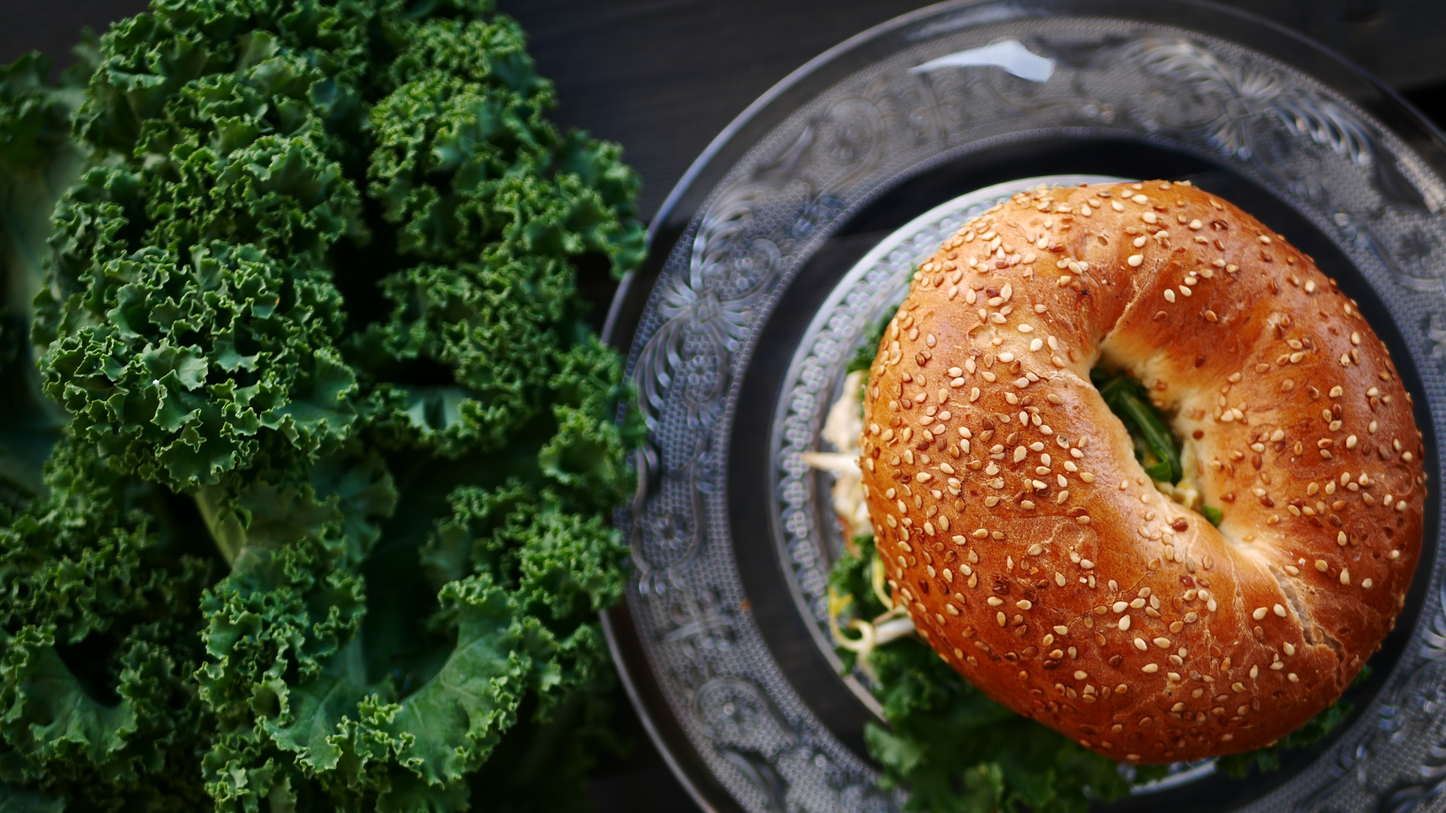
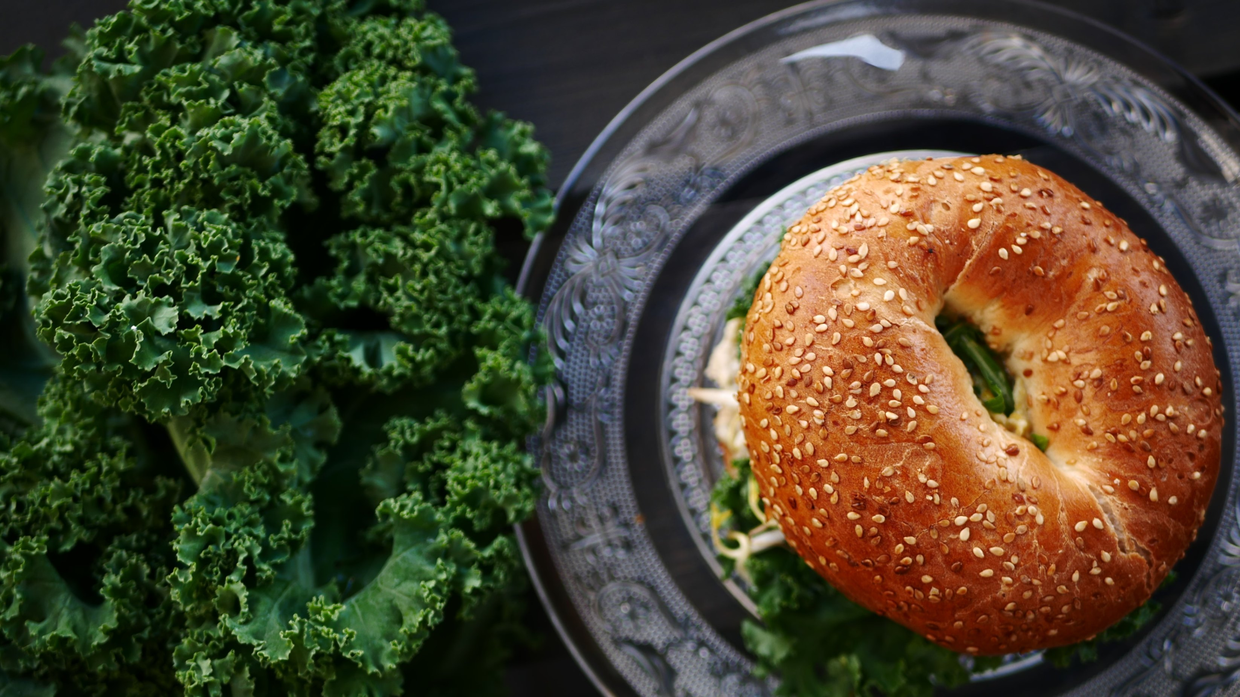
style: [정다운] 사용자용 상품 읽기 페이지에 스타일 적용 [RDY-83]
1. 사용자용 상품 읽기 페이지에 스타일 적용
2. 이미지 압축 후 재업로드
3. 로고 상대경로 절대경로로 변경

diff --git a/src/page/product/productUser/ProductDetail.tsx b/src/page/product/productUser/ProductDetail.tsx
@@ -10,6 +10,7 @@ import {
   TableHead,
   TableRow,
   Paper,
+  Chip,
 } from "@mui/material";
 import AddIcon from "@mui/icons-material/Add";
 import RemoveIcon from "@mui/icons-material/Remove";
@@ -243,7 +244,7 @@ const ProductDetailPage = () => {
           )}
         </div>
 
-        <div className="product-description-container">
+        <div className="product-detail-container">
           <div className="sticky-header-container">
             <div className="sticky-header">
               <div className="sticky-header-elements">
@@ -259,55 +260,96 @@ const ProductDetailPage = () => {
               </div>
             </div>
           </div>
+
           <div className="example1" ref={yDetail}>
             <div className="example-container">
-              상세 정보
               {data && isLoading ? (
                 <>
                   <div>
-                    {/* 여기에 상세 정보 작성하세요 */}
-                    <div className="product-details">
-                      <TableContainer component={Paper}>
-                        <Table sx={{ minWidth: 650 }} aria-label="farm-info table">
-                          <TableHead>
-                            <TableRow>
-                              <TableCell>상호명</TableCell>
-                              <TableCell>전화</TableCell>
-                              <TableCell>주소</TableCell>
-                              <TableCell>소개</TableCell>
-                              <TableCell>분류</TableCell>
-                            </TableRow>
-                          </TableHead>
-                          <TableBody>
-                            <TableRow key={data?.farmInfoResponse.farmName}>
-                              <TableCell>{data?.farmInfoResponse.farmName}</TableCell>
-                              <TableCell>{data?.farmInfoResponse.csContactNumber}</TableCell>
-                              {/* 임시로 주소만 표기 */}
-                              <TableCell>{data?.farmInfoResponse.farmAddress.address}</TableCell>
-                              <TableCell>{data?.farmInfoResponse.introduction}</TableCell>
-                              <TableCell>{data?.farmInfoResponse.produceTypes}</TableCell>
-                            </TableRow>
-                          </TableBody>
-                        </Table>
-                      </TableContainer>
-                      <div className="product-description">
-                        <div>상품 설명</div>
-                        <div>{parsedHTML}</div>
-                      </div>
+                    <div className="product-description-container">
+                      <div className="product-detail-header-name">상품정보</div>
+                      <div>{parsedHTML}</div>
                     </div>
+                    <hr className="hr2-style" />
+                    {/* 여기에 상세 정보 작성하세요 */}
+                    <div className="farm-details">
+                      <div className="product-detail-header-name">판매자정보</div>
+
+                      <div className="farm-profile-container">
+                        <div className="farm-profile">
+                          <img
+                            src={getImageUrl(data?.farmInfoResponse.mainImage)}
+                            width={80}
+                            height={80}
+                            style={{ paddingTop: "14px", paddingBottom: "8px", borderRadius: "50%"}}
+                            alt="사진"
+                          />
+                          <div className="farm-name">
+                            <span>{data?.farmInfoResponse.farmName}</span>
+                          </div>
+                        </div>
+                        <div className="farm-introduce">
+                          {data?.farmInfoResponse.introduction}
+                        </div>
+                      </div>
+
+                        <TableContainer component={Paper}>
+                          <Table sx={{ minWidth: 650 }} aria-label="farm-info table">
+                            <TableHead style={{ backgroundColor: "#FAFAFA" }}>
+                              <TableRow>
+                                <TableCell className="farm-info-cell" style={{ width: "20%", textAlign: "center" }}>전화</TableCell>
+                                <TableCell className="farm-info-cell" style={{ width: "40%", textAlign: "center" }}>주소</TableCell>
+                                <TableCell className="farm-info-cell" style={{ width: "40%", textAlign: "center" }}>생산품목</TableCell>
+                              </TableRow>
+                            </TableHead>
+                            <TableBody>
+                              <TableRow key={data?.farmInfoResponse.farmName}>
+                                <TableCell className="farm-info-cell" style={{ width: "20%", textAlign: "center" }}>{data?.farmInfoResponse.csContactNumber}</TableCell>
+                                {/* 임시로 주소만 표기 */}
+                                <TableCell className="farm-info-cell" style={{ width: "40%", textAlign: "center" }}>{data?.farmInfoResponse.farmAddress.address}</TableCell>
+                                <TableCell className="farm-info-cell" style={{ width: "40%", textAlign: "center" }}>
+                                  {data?.farmInfoResponse.produceTypes.map((produceType, index) => (
+                                    <Chip 
+                                      size="small" 
+                                      style={{color: "#252525", backgroundColor: "#EEEEEE", marginLeft: "3px" }}
+                                      key={index} 
+                                      label={
+                                        produceType === "POTATO" ? "감자" : 
+                                        produceType === "SWEET_POTATO" ? "고구마" : 
+                                        produceType === "CABBAGE" ? "양배추" : 
+                                        produceType === "KIMCHI_CABBAGE" ? "배추" : 
+                                        produceType === "LEAF_LETTUCE" ? "양상추" : 
+                                        produceType === "ROMAINE_LETTUCE" ? "로메인 상추" : 
+                                        produceType === "PEPPER" ? "고추" : 
+                                        produceType === "GARLIC" ? "마늘" : 
+                                        produceType === "TOMATO" ? "토마토" : 
+                                        produceType === "CUCUMBER" ? "오이" : 
+                                        produceType === "CARROT" ? "당근" : 
+                                        produceType === "EGGPLANT" ? "가지" : 
+                                        produceType} />
+                                  ))}
+                                </TableCell>
+                              </TableRow>
+                            </TableBody>
+                          </Table>
+                        </TableContainer>
+                      </div>
                   </div>
                 </>
               ) : (
                 <p>상품 상세 정보 불러오는 중</p>
               )}
             </div>
+            <hr className="hr2-style" />
           </div>
 
           <div className="example2" ref={yReview}>
             {data && isLoading ? (
               <>
                 {/* 여기에 리뷰 작성하세요 */}
-                <div>여기부터 리뷰</div>
+                <div className="example-container">
+                  <div className="product-detail-header-name">상품후기</div>
+                </div>
               </>
             ) : (
               <p>리뷰 정보 불러오는 중</p>

diff --git a/src/page/product/productUser/css/ProductDetail.css b/src/page/product/productUser/css/ProductDetail.css
@@ -30,20 +30,14 @@
 }
 .product-info-grid {
   padding-bottom: 56px;
-  gap: 50px;
+  gap: 20px;
   display: grid;
   flex-direction: column;
   grid-template-columns: repeat(2, minmax(0, 1fr));
 }
 .product-main-image {
-  gap: 6px;
   flex-direction: column;
-  width: 100%;
   display: flex;
-}
-.product-detail-image {
-  width: 10px;
-  height: 10px;
 }
 .product-name {
   font-family: "SUIT-Bold";
@@ -65,6 +59,9 @@
 .hr-style {
   margin-top: 15px;
   margin-bottom: 15px;
+}
+.hr2-style {
+  border-color: rgb(250, 250, 250);
 }
 .product-quantity {
   font-family: "SUIT-SemiBold";
@@ -125,9 +122,12 @@
   align-items: center;
   width: 100%;
 }
-.product-description-container {
+.product-detail-container {
   z-index: 80;
   position: relative;
+}
+.product-description-container {
+  padding-bottom: 100px;
 }
 .sticky-header-container {
   z-index: 90;
@@ -176,13 +176,14 @@
   position: relative;
 }
 .example1 {
-  height: 100vw;
-  background-color: antiquewhite;
+  height: auto;
+  /* background-color: antiquewhite; */
+  /* background-color: red; */
   padding-top: 60px;
 }
 .example2 {
   height: 80vw;
-  background-color: bisque;
+  /* background-color: bisque; */
   padding-top: 60px;
 }
 .scroll-styling {
@@ -190,4 +191,42 @@
 }
 .example-container {
   font-size: x-large;
+  color: #252525;
+  text-align: center;
+  padding-bottom: 100px;
+}
+.farm-details {
+  margin-top: 100px;
+  object-fit: cover;
+}
+.product-detail-header-name {
+  color: #252525;
+  margin-bottom: 20px;
+}
+.farm-profile {
+  left: 0;
+  width: 30%;
+  display: flex;
+  align-items: center;
+  flex-direction: column;
+  object-fit: cover;
+}
+.farm-name {
+  padding-bottom: 10px;
+  font-size: 12px;
+}
+.farm-introduce {
+  width: 70%;
+  display: flex;
+  align-items: center;
+  padding-left: 20px;
+}
+.farm-profile-container {
+  width: 100%;
+  display: flex;
+  font-size: 18px;
+  background-color: rgb(250, 250, 250);
+  border-radius: 15px;
+  margin-bottom: 12px;
+  color: #252525;
 }

diff --git a/src/page/product/productUser/carousel/ProductCarousel.tsx b/src/page/product/productUser/carousel/ProductCarousel.tsx
@@ -59,7 +59,7 @@ export default class ProductCarousel extends Component<ProductCarouselProps, Pro
         <Slider className="main-slider" {...mainImgSettings}>
           {images.map((image) => (
             <div key={image.id}>
-              <img className="product-slide-image" src={image.url} alt={`mainImage ${image.id}`} />
+              <img className="product-slide-main-image" src={image.url} alt={`mainImage ${image.id}`} />
             </div>
           ))}
         </Slider>
@@ -68,7 +68,7 @@ export default class ProductCarousel extends Component<ProductCarouselProps, Pro
             <div key={image.id}>
               <div className="product-slide-image-margin">
                 <img
-                  className="product-slide-image"
+                  className="product-slide-detail-image"
                   src={image.url}
                   style={{ cursor: "pointer" }}
                   alt={`detailImage ${image.id}`}

diff --git a/src/layout/navigation/Header.tsx b/src/layout/navigation/Header.tsx
@@ -54,7 +54,7 @@ const Header: React.FC<HeaderProps> = ({ children }) => {
     <div className="header-fontstyle">
       <div className="top-bar">
         <Link className="Home" to={"/"}>
-          <img alt="로고" src="img/text_logo.png" style={{ width: "100px" }}/>
+          <img alt="로고" src="/img/text_logo.png" style={{ width: "100px" }}/>
         </Link>
         {isLoggedIn ? (
           <>

diff --git a/src/page/product/productUser/carousel/css/ProductCarousel.css b/src/page/product/productUser/carousel/css/ProductCarousel.css
@@ -1,13 +1,19 @@
 .product-slider {
   width: 100%;
 }
-
-.product-slide-image {
-  width: 100%;
-  height: auto;
+.main-slider {
+  width: 500px;
+}
+.product-slide-main-image {
+  width: 500px;
+  height: 500px;
   object-fit: cover;
 }
-
+.product-slide-detail-image {
+  width: 80px;
+  height: 80px;
+  object-fit: cover;
+}
 .product-slide-image-margin {
   margin: 0 1px;
 }

diff --git a/src/page/product/entity/useFarmInfo.tsx b/src/page/product/entity/useFarmInfo.tsx
@@ -4,7 +4,7 @@ export interface useFarmInfo {
   farmAddress: addressCode;
   mainImage: string;
   introduction: string;
-  produceTypes: string;
+  produceTypes: [];
 }
 
 export interface addressCode {
